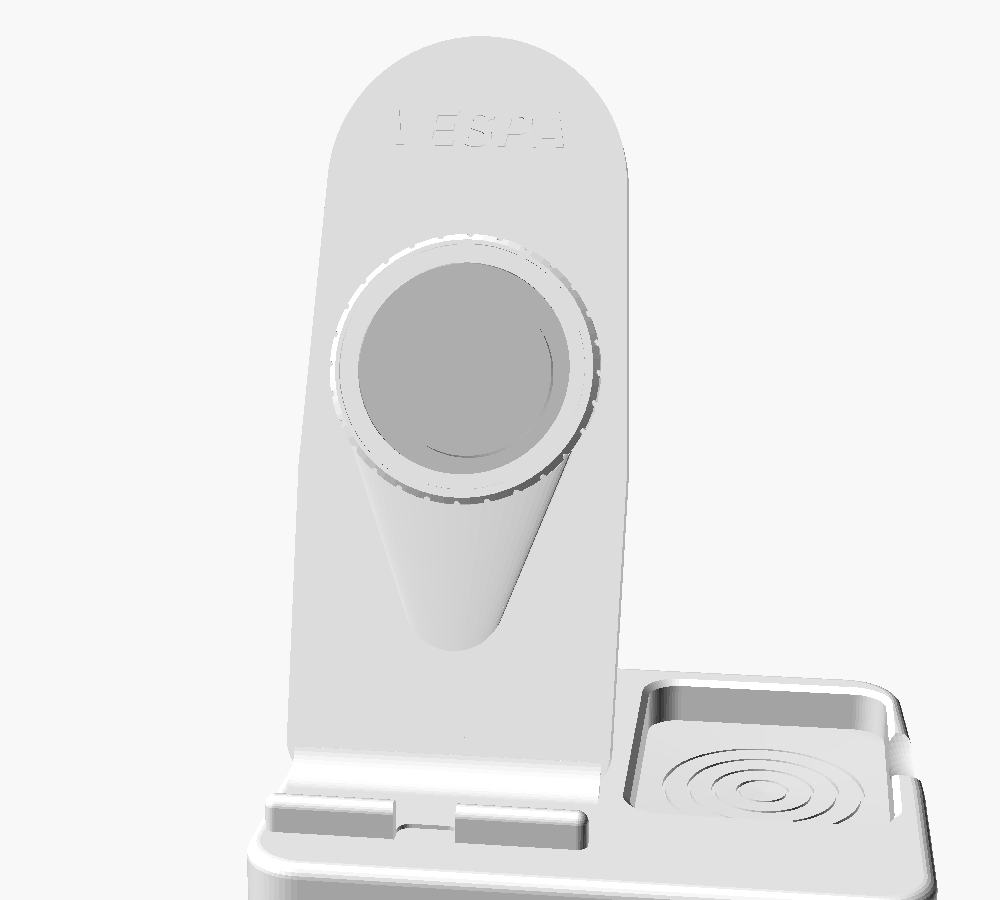
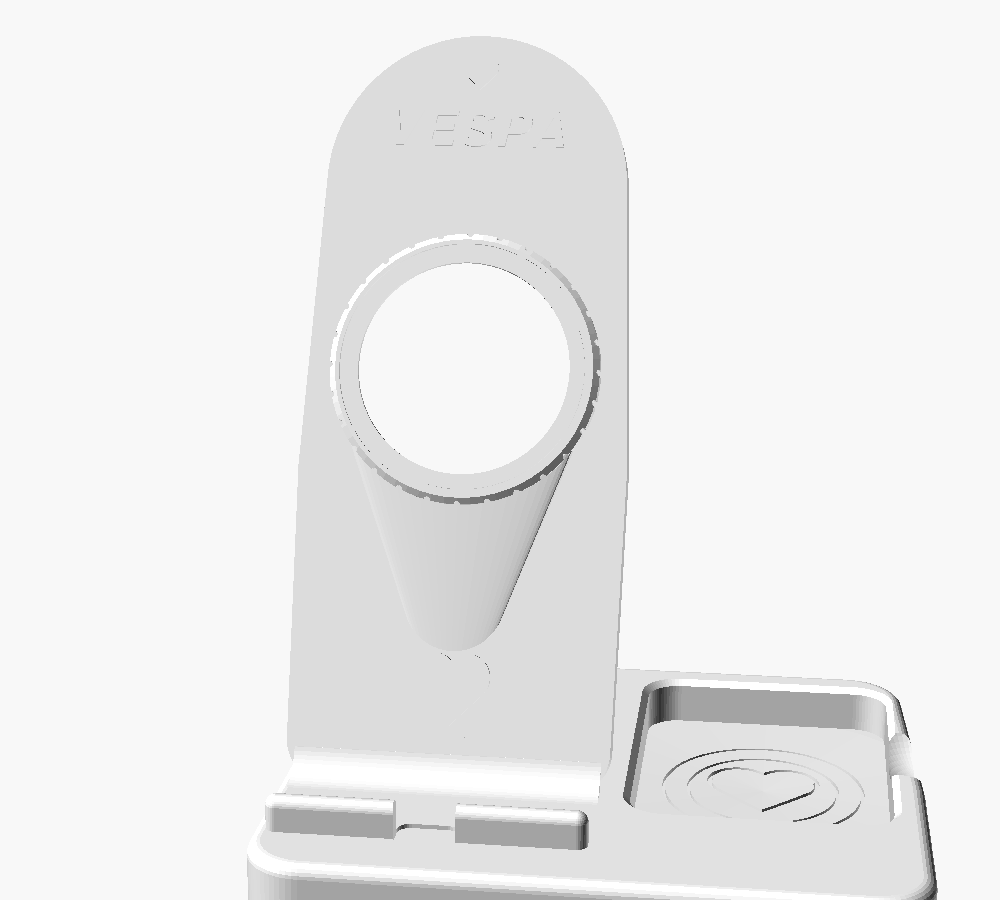
Station monobloc sans vis + coeurs decoratifs (cadeau)
use_rear_cover=false par defaut : le chargeur se clipse (4 bossettes),
le cable se clipse dans une rainure a levres (profil omega), plus
aucune vis ni cache ; anneaux graves au dos. Le cache visse reste
disponible en option (use_rear_cover=true). Ajout de trois coeurs
decoratifs parametrables (facade, sommet, fond du vide-poches).

Claude-Session: https://claude.ai/code/session_017gBYG5fbZREvvkYmdwRAPF

Changed region(s): [[0.341, 0.28, 0.589, 0.5289], [0.713, 0.84, 0.806, 0.9022]]

diff --git a/station_vespa_magsafe/README.md b/station_vespa_magsafe/README.md
@@ -9,18 +9,27 @@ secours. Conçue pour une **Bambu Lab A1** (256 × 256 × 256 mm), en
 
 ![Assemblage](images/assemblage.png)
 
-**Seulement deux pièces imprimées :**
+**Une seule pièce imprimée :**
 
 | Pièce | Fichier | Impression |
 |---|---|---|
 | Corps monobloc (base + vide-poches + dossier 68° + rebord + phare + texte + conduit de câble + patins + lest) | `stl/station_corps_monobloc.stl` | debout, supports **uniquement** dans le logement MagSafe |
-| Cache arrière (ferme le MagSafe, plaque le chargeur, maintient le câble) | `stl/station_cache_arriere.stl` | à plat, aucun support |
+
+Sans cache ni vis : le chargeur MagSafe se **clipse** dans son logement
+(quatre bossettes de retenue, il se retire en le repoussant par l'ouverture
+frontale) et le câble se **clipse** dans sa rainure à lèvres (profil oméga,
+ouverture 3,6 mm pour un câble de 4,2 mm). Le dos est décoré d'anneaux
+gravés autour du logement.
+
+Vous préférez un cache arrière vissé ? Mettez `use_rear_cover = true`,
+ré-exportez le corps (les pilotes de vis apparaissent) et imprimez
+`stl/station_cache_arriere.stl` (4 × M3 × 6, aucun support).
 
 Pièces complémentaires :
 
 | Pièce | Fichier | Rôle |
 |---|---|---|
-| **Test de tolérances** | `stl/station_test_magsafe.stl` | petit extrait (76 × 84 × 12 mm, ≈ 1 h) : logement MagSafe complet, morceau de canal, 4 pilotes M3 — le vrai cache s'y visse pour tout valider avant la grande impression |
+| **Test de tolérances** | `stl/station_test_magsafe.stl` | petit extrait (76 × 84 × 12 mm, ≈ 1 h) : logement MagSafe complet avec ses clips et rainure à lèvres — clipser le chargeur et le câble pour tout valider avant la grande impression |
 | Plaque de lest | `stl/station_plaque_lest.stl` | ferme la cavité de lest (2 vis M3) |
 | Badge logo générique | `stl/station_logo.stl` | optionnel, à coller (`show_logo = true`) |
 
@@ -73,8 +82,13 @@ show_decorative_text = true;      // texte en relief (0,8 mm)
 decorative_text      = "VESPA";   // texte libre ("LA DOLCE VITA", "", ...)
 decorative_text_size = 9;         // hauteur des lettres
 text_font = "Liberation Sans:style=Bold Italic";
+show_hearts          = true;      // coeurs : façade, sommet, vide-poches
 show_logo            = false;     // badge rapporté + son logement
 ```
+
+Trois cœurs décoratifs (désactivables avec `show_hearts = false`) : en relief
+sous le phare, au-dessus du texte, et gravé au fond du vide-poches. Pour une
+finition « cadeau » : PLA Matte rose pastel, lilas ou blanc crème.
 
 `show_decorative_text = false` donne la version lisse. Le texte est recoupé à
 l'intérieur de la silhouette : un texte trop long ne débordera jamais.